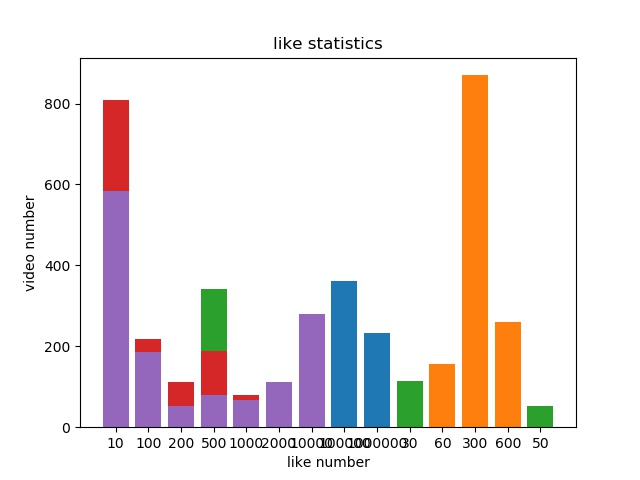
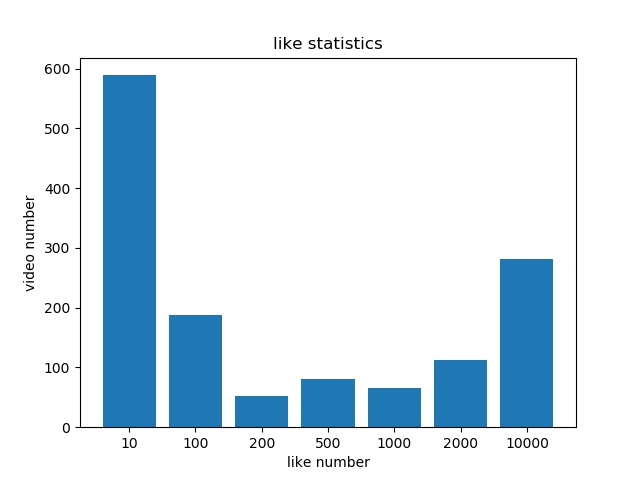
Amend and debug.

diff --git a/bilibili_content_analysis.py b/bilibili_content_analysis.py
@@ -29,7 +29,7 @@ class BilibiliAnalysis:
         # 创建直方图
         # 第一个参数为待绘制的定量数据，不同于定性数据，这里并没有事先进行频数统计
         # 第二个参数为划分的区间个数
-
+        pyplot.cla()
         pyplot.hist(heights, hist_num)
         pyplot.xlabel(x_label_name)
         pyplot.ylabel(y_label_name)
@@ -37,6 +37,7 @@ class BilibiliAnalysis:
         pyplot.show()
 
         pyplot.savefig(image_path)
+        pyplot.close()
 
     @staticmethod
     def draw_bar(data_array, x_label_name, y_label_name, title_str, image_path, xticks):
@@ -64,6 +65,7 @@ class BilibiliAnalysis:
         pyplot.title(title_str)
         pyplot.show()
         pyplot.savefig(image_path)
+        pyplot.close()
 
     def cal_gini(self, data_dict):
         import numpy as np
@@ -466,16 +468,14 @@ class BilibiliAnalysis:
             result_dict["favorite"].append(video_info_dict["favorite_num"])
         res_str = ','.join([str(i) for i in result_dict["view"]])
         for key in result_dict:
-            image_path = "./" + key + "_bar.jpg"
+            hist_image_path = "./" + key + "_hist.jpg"
+            bar_image_path = "./" + key + "_bar.jpg"
             x_label_name = key + " number"
             y_label_name = "video number"
             title_str = key + " statistics"
             hist_num = 10
-            print(key)
-            print(result_dict[key])
-            print(xtick_dict[key])
-            # self.draw_hist(result_dict[key], x_label_name, y_label_name, title_str, image_path, hist_num)
-            self.draw_bar(result_dict[key], x_label_name, y_label_name, title_str, image_path, xtick_dict[key])
+            self.draw_hist(result_dict[key], x_label_name, y_label_name, title_str, hist_image_path, hist_num)
+            self.draw_bar(result_dict[key], x_label_name, y_label_name, title_str, bar_image_path, xtick_dict[key])
 
 
 if __name__ == "__main__":
